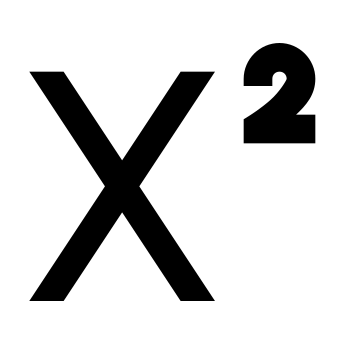
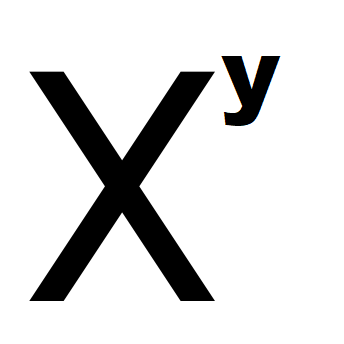
fix:fix pow function

Changed region(s): [[0.6395, 0.1163, 0.9302, 0.436]]

diff --git a/my-calculator/src/Components/Buttons/Buttons.js b/my-calculator/src/Components/Buttons/Buttons.js
@@ -37,7 +37,6 @@ class Buttons extends Component {
           }
           break;
         default:
-          alert("Sehr gut");
           break;
       }
     };
@@ -66,7 +65,7 @@ class Buttons extends Component {
           break;
 
         case "^":
-          result = Math.pow(Number(firstNum), 2);
+          result = Math.pow(Number(firstNum), Number(secondNum));
           break;
 
         case "sqrt":
@@ -89,6 +88,7 @@ class Buttons extends Component {
         type="text"
         placeholder="input the numbers"
         readOnly
+        autoFocus
         onKeyDown={keyHandler}
       ></input>
     );
@@ -135,7 +135,7 @@ class Buttons extends Component {
           this.prevOperand = String(this.firstNumber + this.operationSign);
           memoryDisplayElement.innerHTML = this.prevOperand;
         }
-        if (number === "sqrt" || number === "^") {
+        if (number === "sqrt") {
           this.operationSign = number;
           this.showValue = operation(
             this.firstNumber,
@@ -150,7 +150,8 @@ class Buttons extends Component {
           number === "+" ||
           number === "-" ||
           number === "*" ||
-          number === "/"
+          number === "/" ||
+          number === '^'
         ) {
           this.operationSign = number;
           this.showValue = this.operationSign;
@@ -192,6 +193,7 @@ class Buttons extends Component {
           type="text"
           placeholder="input the numbers"
           readOnly
+          autoFocus
           value={this.showValue}
         ></input>
       );
@@ -215,8 +217,8 @@ class Buttons extends Component {
           <button className="operation-btn" onClick={() => handleClick("+")}>
             +
           </button>
-          <button className="operation-btn" onClick={() => handleClick("^")}>
-            X²{" "}
+          <button className="operation-btn pow" onClick={() => handleClick("^")}>
+            
           </button>{" "}
           <button onClick={() => handleClick(4)}> 4 </button>{" "}
           <button onClick={() => handleClick(5)}> 5 </button>{" "}
@@ -228,8 +230,8 @@ class Buttons extends Component {
             <svg
               xmlns="http://www.w3.org/2000/svg"
               className="icon icon-tabler icon-tabler-math"
-              width="24"
-              height="24"
+              width="40"
+              height="40"
               viewBox="0 0 24 24"
               strokeWidth="2"
               stroke="currentColor"

diff --git a/my-calculator/src/Components/Buttons/Buttons.css b/my-calculator/src/Components/Buttons/Buttons.css
@@ -51,3 +51,12 @@ input {
 .operation-btn {
     background-color:darkseagreen;
 }
+
+.pow {
+    background-image: url(./images/squareNum.png);
+    background-position: center;
+    background-size: 2.5rem;
+    background-color: darkseagreen;
+    background-repeat: no-repeat;
+    background-blend-mode: multiply;
+}
